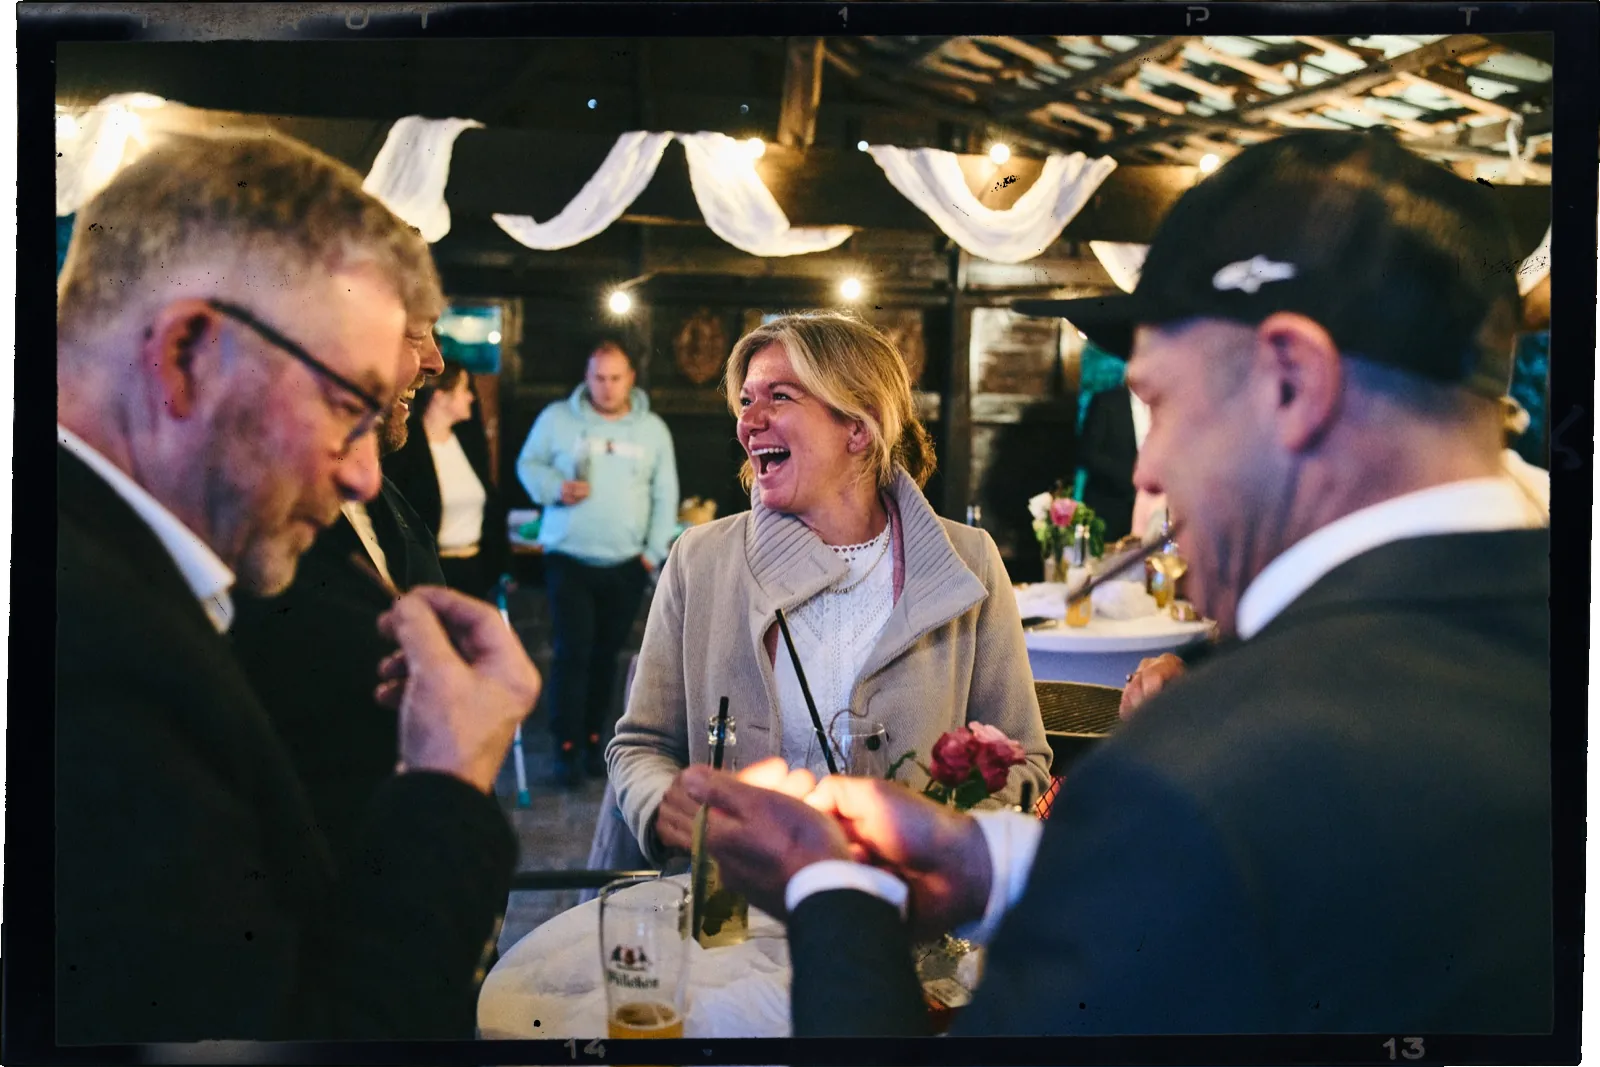
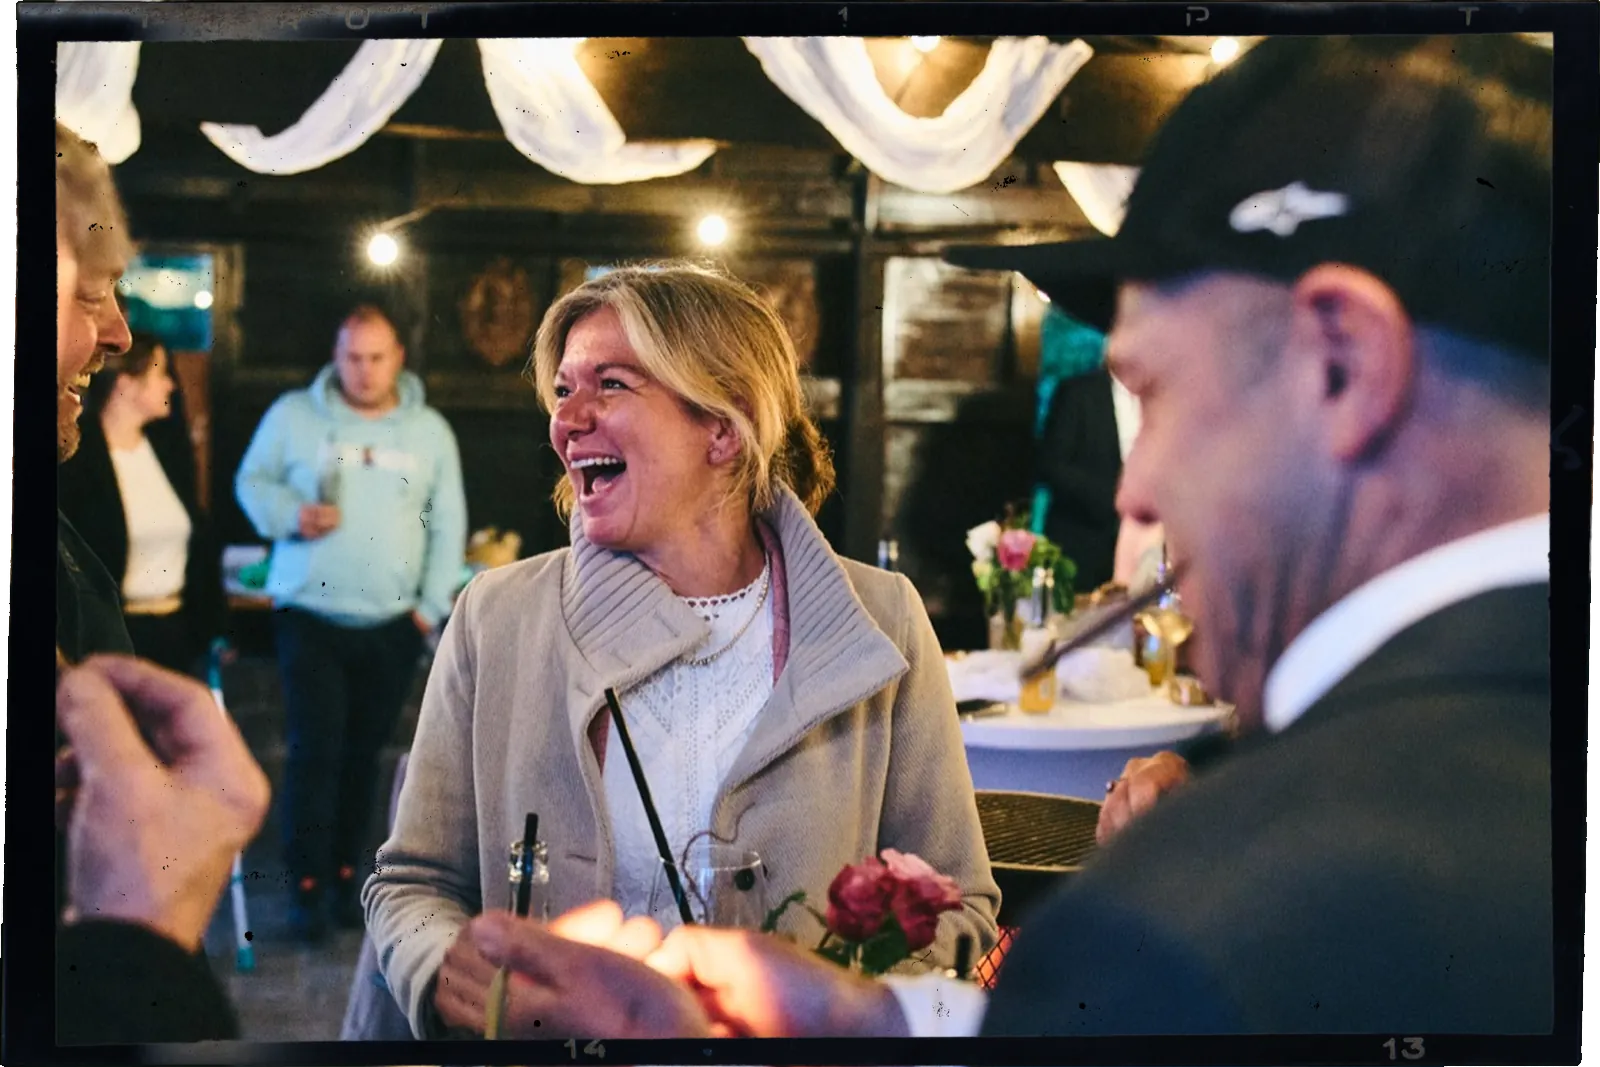
Bild 19 enger zugeschnitten, Mann links tritt zurück

diff --git a/index.html b/index.html
@@ -384,7 +384,7 @@ html.lenis,html.lenis body{height:auto}
     <figure class="frame" style="--c:1/7;--r:3;--mt:clamp(-6px,-.4vw,-2px);--mc:1/7;--rot:-1deg"><img src="img/27f.webp" alt="Hände mit Eheringen auf dem Brautstrauß" loading="lazy" width="1600" height="1067"><figcaption></figcaption></figure>
     <figure class="frame" style="--c:7/13;--r:3;--mt:clamp(10px,1.4vw,20px);--mc:1/7;--rot:.8deg"><img src="img/12f.webp" alt="Hochzeitsgesellschaft am Teich" loading="lazy" width="1600" height="1067"><figcaption></figcaption></figure>
     <figure class="frame" style="--c:1/5;--r:4;--mt:clamp(4px,.6vw,10px);--mc:1/7;--rot:1deg"><img src="img/14f.webp" alt="Gartenfeier am Nachmittag" loading="lazy" width="1600" height="1066"><figcaption></figcaption></figure>
-    <figure class="frame" style="--c:5/9;--r:4;--mt:clamp(16px,2.2vw,30px);--mc:1/7;--rot:-1deg"><img src="img/15f.webp" alt="Lachende Gäste am Tisch" loading="lazy" width="1600" height="1067"><figcaption></figcaption></figure>
+    <figure class="frame" style="--c:5/9;--r:4;--mt:clamp(16px,2.2vw,30px);--mc:1/7;--rot:-1deg"><img src="img/15f.webp?v=2" alt="Lachende Gäste am Tisch" loading="lazy" width="1600" height="1067"><figcaption></figcaption></figure>
     <figure class="frame" style="--c:9/13;--r:4;--mt:0;--mc:1/7;--rot:-1.2deg"><img src="img/16f.webp" alt="Handkuss bei der Feier, das Weinglas in der Hand" loading="lazy" width="1600" height="1066"><figcaption></figcaption></figure>
     <figure class="stack" style="--c:1/4;--r:5;--mt:clamp(4px,.6vw,10px);--mc:1/4;--rot:.6deg">
       <div class="strip"><img src="img/29.jpg" alt="Die Braut wirft den Brautstrauß" loading="lazy" width="1600" height="1067"><img src="img/30.jpg" alt="Jubel nach dem Fangen des Brautstraußes" loading="lazy" width="1600" height="1067"></div>
